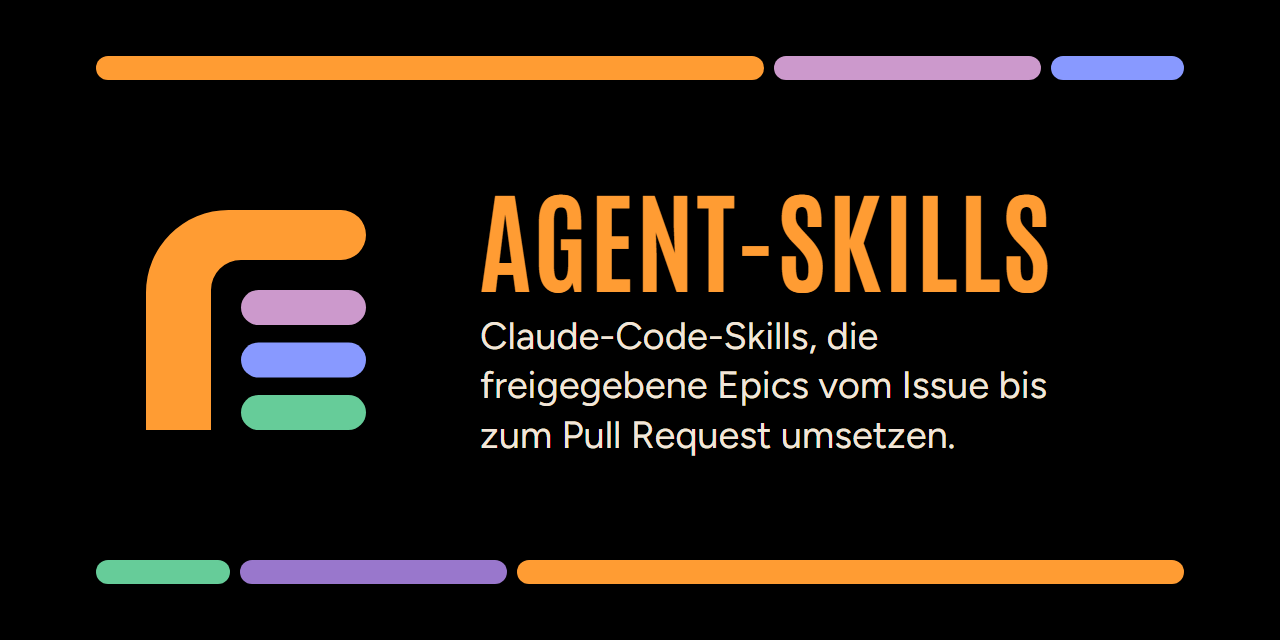
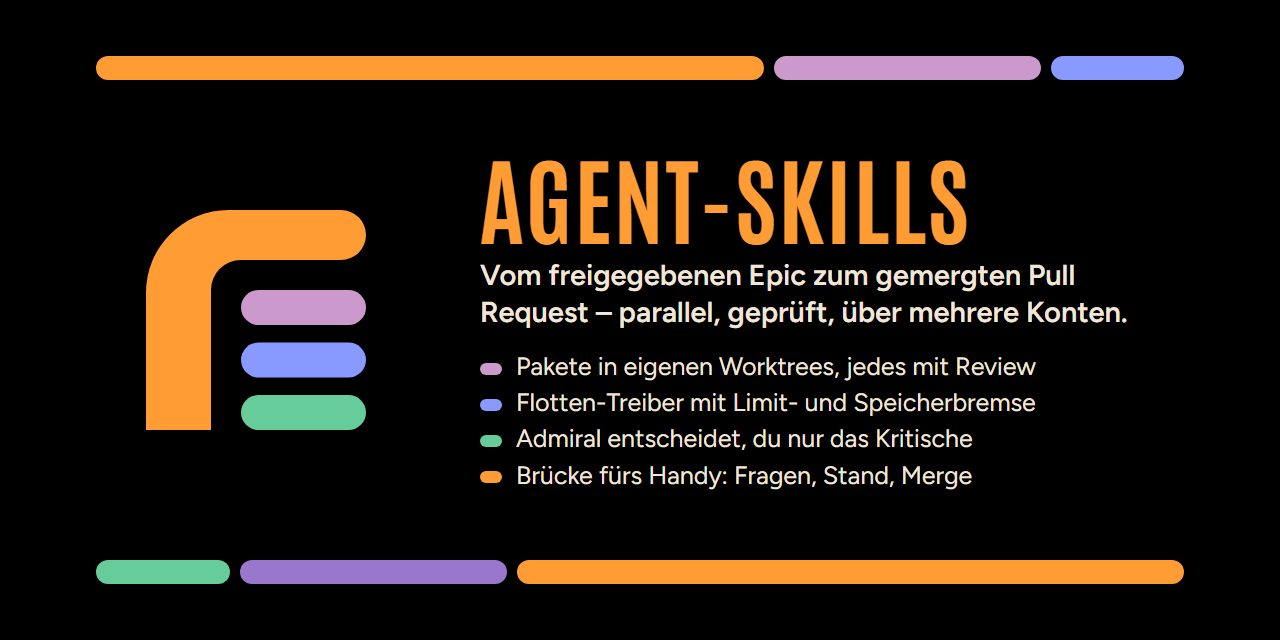
docs(assets): richer social preview — subtitle and four strengths

Changed region(s): [[0.375, 0.25, 0.875, 0.7812]]

diff --git a/assets/social-preview.html b/assets/social-preview.html
@@ -6,8 +6,10 @@
   html, body { margin: 0; width: 1280px; height: 640px; background: #000; overflow: hidden; }
   body { display: grid; grid-template-columns: 320px 1fr; align-items: center; gap: 64px; padding: 0 96px; box-sizing: border-box; }
   img { width: 320px; height: 320px; display: block; }
-  h1 { margin: 0 0 20px; font: 700 112px/1 Antonio, sans-serif; letter-spacing: .02em; color: #ff9c33; text-transform: uppercase; }
-  p { margin: 0; max-width: 24ch; font: 400 38px/1.3 Figtree, sans-serif; color: #f2e6d9; }
+  h1 { margin: 0 0 14px; font: 700 96px/1 Antonio, sans-serif; letter-spacing: .02em; color: #ff9c33; text-transform: uppercase; }
+  p { margin: 0 0 18px; font: 600 29px/1.25 Figtree, sans-serif; color: #f2e6d9; }
+  ul { margin: 0; padding: 0; list-style: none; font: 400 25px/1.45 Figtree, sans-serif; color: #f2e6d9; }
+  li::before { content: ''; display: inline-block; width: 22px; height: 12px; border-radius: 6px; margin-right: 14px; vertical-align: middle; background: var(--f); }
   .band { position: absolute; left: 96px; right: 96px; height: 24px; display: flex; gap: 10px; }
   .band span { border-radius: 12px; }
   .oben { top: 56px; } .unten { bottom: 56px; }
@@ -16,6 +18,12 @@
 <img src="icon.svg" alt="">
 <div>
   <h1>agent-skills</h1>
-  <p>Claude-Code-Skills, die freigegebene Epics vom Issue bis zum Pull Request umsetzen.</p>
+  <p>Vom freigegebenen Epic zum gemergten Pull Request – parallel, geprüft, über mehrere Konten.</p>
+  <ul>
+    <li style="--f:#cc99cc">Pakete in eigenen Worktrees, jedes mit Review</li>
+    <li style="--f:#8899ff">Flotten-Treiber mit Limit- und Speicherbremse</li>
+    <li style="--f:#66cc99">Admiral entscheidet, du nur das Kritische</li>
+    <li style="--f:#ff9c33">Brücke fürs Handy: Fragen, Stand, Merge</li>
+  </ul>
 </div>
 <div class="band unten"><span style="flex:1;background:#66cc99"></span><span style="flex:2;background:#9977cc"></span><span style="flex:5;background:#ff9c33"></span></div>
